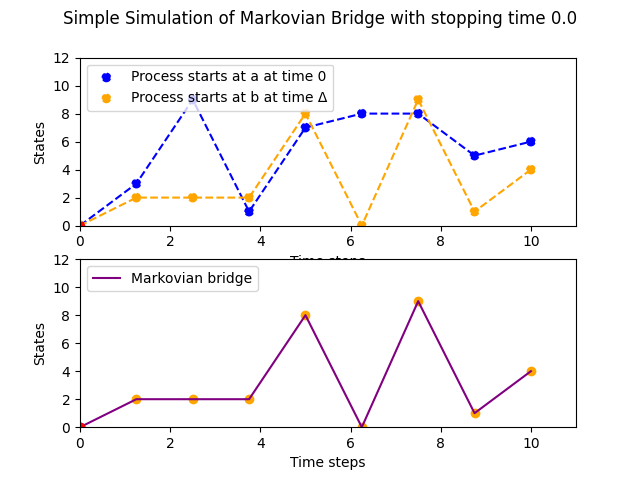
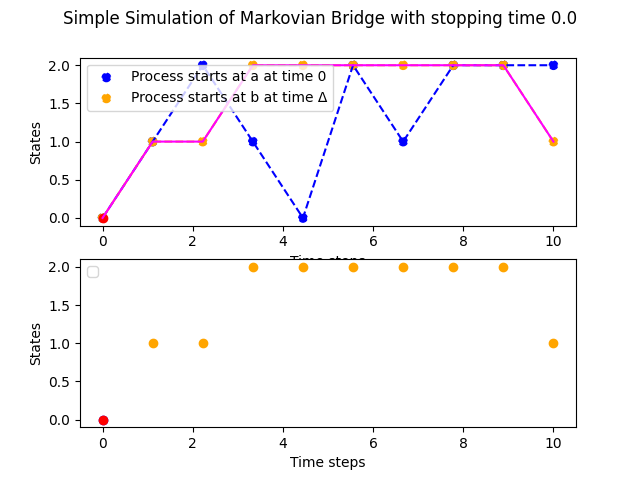
test commit new

diff --git a/MC.py b/MC.py
@@ -12,20 +12,21 @@ from quantecon import MarkovChain
 from math import sqrt
 from scipy.stats import norm
 
-def MC_Sim(P, T, N):
-     mc = qe.MarkovChain(P, (0, 1, 2, 3, 4, 5, 6, 7, 8, 9, 10))
-     time = list(np.linspace(0, T, num=N))
-     reversed_time = list(np.linspace(0, T, num=N))
-     reversed_time.reverse()
+def MC_Sim(P, N):
+     mc = qe.MarkovChain(P, (0, 1, 2))
+     #time = list(np.linspace(0, T, num=N))
+     #reversed_time = list(np.linspace(0, T, num=N))
+     #reversed_time.reverse()
      X_1 = {}
      X_2 = {}
      Z = {}
      time_steps = [i for i in range(N)]
-     reversed_time_steps = reversed(time_steps)
+     reversed_time_steps = [i for i in range(N)]
+     reversed_time_steps.reverse()
      if mc.is_irreducible == True and mc.is_aperiodic == True:
           #print('ok')
-          X1 = mc.simulate(ts_length=len(time), init=0)
-          X2 = mc.simulate(ts_length=len(time), init=4)
+          X1 = mc.simulate(ts_length=len(time_steps), init=0)
+          X2 = mc.simulate(ts_length=len(time_steps), init=1)
 
           for i in range(N):
                X_1[i] = X1[i]
@@ -39,7 +40,7 @@ def MC_Sim(P, T, N):
                     inter = True
                     stop_index = i
                     stop_value = X_1[stop_index]
-                    stop_time = time[i]
+                    #stop_time = time[i]
                     #print(stop_time)
                     break
 
@@ -60,60 +61,58 @@ def MC_Sim(P, T, N):
                          z1[idx] = Z[idx]
                     else:
                          z2[idx] = Z[idx]
-               for i in time:
-                    if i <= stop_time:
+               for i in time_steps:
+                    if i <= stop_index:
                          t1.append(i)
                     else:
                          t2.append(i)
-               '''
-               print(stop_time)
+
+               print(stop_index)
                #print(Z[stop_index])
-               fig, ax = plt.subplots(2)
-               fig.suptitle("Simple Simulation of Markovian Bridge with stopping time " + str(stop_time))
-               ax[0].set_xlabel('Time steps')
-               ax[0].set_ylabel('States')
-               ax[0].set_xlim(0, T + 1)
-               ax[0].set_ylim(0, 12)
-               ax[1].set_xlabel('Time steps')
-               ax[1].set_ylabel('States')
-               ax[1].set_xlim(0, T + 1)
-               ax[1].set_ylim(0, 12)
-               ax[0].scatter(time, X_1.values(), label = "Process starts at a at time 0",  linestyle='--', color="blue")
-               ax[0].plot(time, X_1.values(), linestyle='--', color="blue")
-               ax[0].scatter(reversed_time, X_2.values(), label = "Process starts at b at time Δ", linestyle='--', color="orange")
-               ax[0].plot(reversed_time, X_2.values(), linestyle='--', color="orange")
-               ax[0].legend(loc='upper left')
-               ax[0].plot(stop_time, stop_value, 'ro')
-               ax[1].plot(time, Z.values(), label="Markovian bridge", color="purple")
-               ax[1].scatter(t1, z1.values(), color="blue")
-               ax[1].scatter(t2, z2.values(),  color="orange")
-               ax[1].plot(stop_time, stop_value, 'ro')
-               ax[1].legend(loc='upper left')
-               fig.savefig('static_plot.png')
-               #plt.show()
-               '''
+               fig, ax = plt.subplots()
+               #ax.set_title("Simple Simulation of Markovian Bridge with stopping time " + str(stop_index))
+               ax.set_xlabel('Time steps')
+               ax.set_ylabel('States')
+               #ax[0].set_xlim(0, T + 1)
+               #ax[0].set_ylim(0, 12)
+               #ax[1].set_xlabel('Time steps')
+               #ax[1].set_ylabel('States')
+               #ax[1].set_xlim(0, T + 1)
+               #ax[1].set_ylim(0, 12)
+               ax.scatter(time_steps, X_1.values(), label = "Process starts at a at time 0",  linestyle='--', color="blue")
+               ax.plot(time_steps, X_1.values(), linestyle='--', color="blue")
+               ax.scatter(reversed_time_steps, X_2.values(), label = "Process starts at b at time Δ", linestyle='--', color="orange")
+               ax.plot(reversed_time_steps, X_2.values(), linestyle='--', color="orange")
+               ax.plot(stop_index, stop_value, 'ro', label= "first time processes intersect")
+               ax.plot(time_steps, Z.values(), label="(0,a,Δ,b)- discrete Markovian bridge", color="fuchsia")
+               #ax.legend(loc='upper center', bbox_to_anchor=(1.25, 1.25), ncol=3, fancybox=True, shadow=True)
+               #ax[1].scatter(t1, z1.values(), color="blue")
+               #ax[1].scatter(t2, z2.values(),  color="orange")
+               #ax[1].plot(stop_time, stop_value, 'ro')
+               #ax[1].legend(loc='upper left')
+               ax.legend(loc='upper center', bbox_to_anchor = (0.65, 1.05), ncol=2)
+               plt.show()
+
           else:
                inter = False
           return inter
      else:
           print("Matrix P doesn't satisfy ergodicity assumption")
 
-
-
-
-
-P = [[0.05, 0.05, 0.1, 0.1, 0.1, 0.1, 0.1, 0.2, 0.1, 0.05, 0.05],
-     [0.05, 0.05, 0.3, 0.05, 0.05, 0.1, 0.1, 0.1, 0.1, 0.05, 0.05],
-     [0.4, 0.025, 0.025, 0.025, 0.025, 0.1, 0.1, 0.1, 0.1, 0.05, 0.05],
-     [0.2, 0.1, 0.2, 0.05, 0.05, 0.05, 0.05, 0.05, 0.05, 0.1, 0.1],
-     [0.3, 0.2, 0.025, 0.025, 0.025, 0.025, 0.1, 0.1, 0.1, 0.05, 0.05],
-     [0.05, 0.05, 0.1, 0.1, 0.1, 0.1, 0.1, 0.2, 0.1, 0.05, 0.05],
-     [0.05, 0.05, 0.3, 0.05, 0.05, 0.1, 0.1, 0.1, 0.1, 0.075, 0.025],
-     [0.4, 0.025, 0.025, 0.025, 0.025, 0.1, 0.1, 0.1, 0.1, 0.04, 0.06],
-     [0.2, 0.1, 0.2, 0.05, 0.05, 0.05, 0.05, 0.05, 0.05, 0.15, 0.05],
-     [0.3, 0.2, 0.025, 0.025, 0.025, 0.025, 0.1, 0.1, 0.1, 0.05, 0.05],
-     [0.2, 0.3, 0.025, 0.025, 0.025, 0.025, 0.1, 0.1, 0.1, 0.05, 0.05]
-     ]
+P = [[0.6, 0.2, 0.2], [0.3, 0.4, 0.3], [0.0, 0.3, 0.7]]
+print(MC_Sim(P, 10))
+# P = [[0.05, 0.05, 0.1, 0.1, 0.1, 0.1, 0.1, 0.2, 0.1, 0.05, 0.05],
+#      [0.05, 0.05, 0.3, 0.05, 0.05, 0.1, 0.1, 0.1, 0.1, 0.05, 0.05],
+#      [0.4, 0.025, 0.025, 0.025, 0.025, 0.1, 0.1, 0.1, 0.1, 0.05, 0.05],
+#      [0.2, 0.1, 0.2, 0.05, 0.05, 0.05, 0.05, 0.05, 0.05, 0.1, 0.1],
+#      [0.3, 0.2, 0.025, 0.025, 0.025, 0.025, 0.1, 0.1, 0.1, 0.05, 0.05],
+#      [0.05, 0.05, 0.1, 0.1, 0.1, 0.1, 0.1, 0.2, 0.1, 0.05, 0.05],
+#      [0.05, 0.05, 0.3, 0.05, 0.05, 0.1, 0.1, 0.1, 0.1, 0.075, 0.025],
+#      [0.4, 0.025, 0.025, 0.025, 0.025, 0.1, 0.1, 0.1, 0.1, 0.04, 0.06],
+#      [0.2, 0.1, 0.2, 0.05, 0.05, 0.05, 0.05, 0.05, 0.05, 0.15, 0.05],
+#      [0.3, 0.2, 0.025, 0.025, 0.025, 0.025, 0.1, 0.1, 0.1, 0.05, 0.05],
+#      [0.2, 0.3, 0.025, 0.025, 0.025, 0.025, 0.1, 0.1, 0.1, 0.05, 0.05]
+#      ]
 
 def Monte_Carlo(sim_n, freq):
      count = 0
@@ -175,7 +174,7 @@ def prob_plot():
 
      #ax[1].plot(n, prob_time)
      plt.show()
-print(prob_plot())
+#print(prob_plot())
 
 #print(Monte_Carlo_time_interval(100, 100))
 #print(prob_plot())
